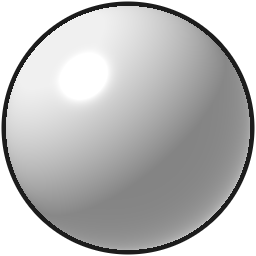
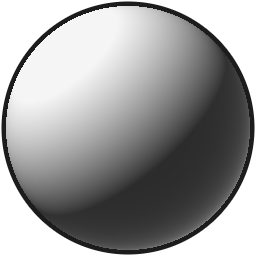
set 307 tribe badge c: stronger sphere light + white highlight layer (owner) — sample only

diff --git a/claude/preview-set268/s307badge-patch.py b/claude/preview-set268/s307badge-patch.py
@@ -1,14 +1,19 @@
-# set 307 tribe badge on the shop card: painted grey medallion (GPT, S307-medallion.png) tinted by the tribe colour
+# set 307 tribe badge on the shop card: grey sphere (S307-orb.png, PIL; set 307 a GPT medallion retired) tinted by the tribe colour + white highlight layer
 # replaces the flat code circle; the owner's white glyph (r38w, note 190) stays, a bit smaller inside the rim.
 # Usage: python s307badge-patch.py <g286> (after s307card)
 import sys, os, shutil
 here = os.path.dirname(os.path.abspath(__file__)); g = sys.argv[1]
 shutil.copy(os.path.join(here, "S307-orb.png"), os.path.join(g, "ui_r48", "medallion.png"))
+shutil.copy(os.path.join(here, "S307-orb-spec.png"), os.path.join(g, "ui_r48", "medallion_spec.png"))   # set 307 c: white highlight, untinted
 p = os.path.join(g, "scripts", "ui", "r43.gd")
 s = open(p, encoding="utf-8", newline="").read()
 if not os.path.exists(p + ".s307badge"): shutil.copy(p, p + ".s307badge")
+SPEC = "\t\tci.draw_texture_rect(_tex(\"medallion_spec\"), Rect2(bc - Vector2(md, md) * 0.5, Vector2(md, md)), false, Color(1, 1, 1, fa))   # set 307 c\n"
 old = "\t\tv._badge(ci, Vector2(r.position.x + 11, r.position.y + 1 + bh * 0.5), 12.0, str(ts[0]), tc, 2)\n"
-assert s.count(old) == 1, "badge call"
+if old not in s:   # already patched (set 307 b) -> only add the white highlight layer once
+    if "medallion_spec" not in s:
+        k = s.index("\t\tvar gl: Texture2D = BADGE50.glyph(str(ts[0]))\n"); s = s[:k] + SPEC + s[k:]
+    open(p, "w", encoding="utf-8", newline="").write(s); print("s307badge ok (spec)"); sys.exit(0)
 new = ("\t\tvar bc := Vector2(r.position.x + 11, r.position.y + 1 + bh * 0.5)   # set 307: painted medallion + owner glyph\n"
        "\t\tvar md := 15.0\n"
        "\t\tci.draw_texture_rect(_tex(\"medallion\"), Rect2(bc - Vector2(md, md) * 0.5, Vector2(md, md)), false, Color(tc.r, tc.g, tc.b, fa))\n"

diff --git a/claude/preview-set268/S307-orb.py b/claude/preview-set268/S307-orb.py
@@ -1,4 +1,6 @@
 # set 307 tribe badge b: owner "not like a coin — make it look like a sphere". PIL-rendered grey glossy orb
+# set 307 c: owner "the light is too flat" -> strong light/dark (ambient 0.18, lambert^0.9 x0.95, darker terminator),
+# and the specular moves to its own WHITE layer S307-orb-spec.png drawn untinted on top (tint was turning it tribe-coloured).
 # (lambert + soft specular top-left + rim light bottom-right + thin dark outline), tinted per tribe in code like the medallion.
 import numpy as np
 from PIL import Image
@@ -13,9 +15,9 @@ lam = np.clip(x * L[0] + y * L[1] + z * L[2], 0, 1)
 H = L + np.array([0, 0, 1.0]); H /= np.linalg.norm(H)
 spec = np.clip(x * H[0] + y * H[1] + z * H[2], 0, 1) ** 90
 rim = np.clip((x * 0.6 + y * 0.7), 0, 1) * (1 - z) ** 2       # bounce light bottom-right edge
-v = 0.55 + 0.50 * lam + 0.30 * rim
+v = 0.18 + 0.95 * lam ** 0.9 + 0.40 * rim
 v = np.clip(v, 0, 1)
-col = v * 240.0 + spec * 255.0 * 0.7
+col = v * 245.0
 col = np.clip(col, 0, 255)
 r = np.sqrt(d2) * R
 edge = np.clip((R + 4.5 - r), 0, 1)                         # outline band 4.5 px (at 256)
@@ -23,4 +25,6 @@ outline = (r > R - 0.5)
 a = np.clip(R + 4.5 + 0.5 - r, 0, 1)
 rgb = np.where(inside, col, 28.0)
 img = np.dstack([rgb, rgb, rgb, a * 255]).astype(np.uint8)
-Image.fromarray(img).save("S307-orb.png"); print("ok")
+Image.fromarray(img).save("S307-orb.png")
+sp = np.clip(np.clip(x * H[0] + y * H[1] + z * H[2], 0, 1) ** 28 * 1.1, 0, 1) * inside
+Image.fromarray(np.dstack([np.full((N, N, 3), 255.0), sp * 255]).astype(np.uint8)).save("S307-orb-spec.png"); print("ok")

diff --git a/claude/preview-set268/notes.md b/claude/preview-set268/notes.md
@@ -418,3 +418,4 @@ Rebuild adds → s299r35w10-patch.py (after s299r35w9).
 243. (set 307, 28 Nov) Owner OK on the card tweak (price on the coin, pills 26). New order: GPT designs new tribe symbols (badge on the card name strip).
 244. (set 307, tribe badge, 28 Nov, pending owner look) Sample sheet `S307-tribe-sample.png` (owner glyphs r38w + the badge on the card now). Owner A: "only the circle, our symbols are OK" (glyphs stay, note 190) · B no preference · C1 round for every tribe. Claude: one grey piece tinted per tribe in code (chatgpt.md §4). Codex image_generation, brief `medallion` (empty light-grey round medallion, raised bevelled rim, sunken face with a thin dark groove, style of our coin + pill, magenta bg; refs = target name strip + our coin/pill), 2 attempts `S307-gpt-medallion-1/2.png`, #2 used (crisper outline). `S307-medallion.py` keys + crops → `S307-medallion.png` 256 px. `s307badge-patch.py <g286>` (after s307card; backup r43.gd.s307badge): medallion 15 px tinted by the tribe colour (multiply) + the owner glyph 56 % of it, white. Shots S307-badge-compare.png (before / now + ×4) · S307-badge-phone-demo.png. No SCRIPT ERROR. Seen: multiply tint makes the badge a little darker/duller than the flat circle; rim reads at ×4, faint at real size.
 245. (set 307, tribe badge b, 28 Nov, pending owner look) Owner on the GPT medallion: "not like a coin — make it look like a sphere". PIL, no GPT: `S307-orb.py` renders a grey glossy orb 256 px (light from top-left, lambert 0.55 + 0.50, small specular power 90 at 0.7, bounce light bottom-right, 4.5 px dark outline), tinted per tribe in code exactly like the medallion; `s307badge-patch.py` now copies S307-orb.png as ui_r48/medallion.png (r43.gd unchanged). First try (base 0.30) was too dark → brightened. Shots S307b-badge-compare.png (coin-style / sphere + ×4) · S307b-badge-phone-demo.png. No SCRIPT ERROR. GPT medallion files kept (S307-gpt-medallion-*.png, S307-medallion.png) but unused.
+246. (set 307, tribe badge c, 28 Nov, pending owner look) Owner: "the light is too flat". `S307-orb.py`: ambient 0.18 + lambert^0.9 ×0.95 + bounce 0.40 (strong light/dark), specular moved to its own white layer `S307-orb-spec.png` (power 28) drawn UNTINTED on top (the tribe tint had turned the highlight tribe-coloured). `s307badge-patch.py` copies both and adds one `medallion_spec` draw line before the glyph (reruns safely). Shots S307c-badge-compare.png · S307c-badge-phone-demo.png. No SCRIPT ERROR. Seen: reads as a lit ball now; the dark lower half lowers glyph contrast a little on dark tribes.
